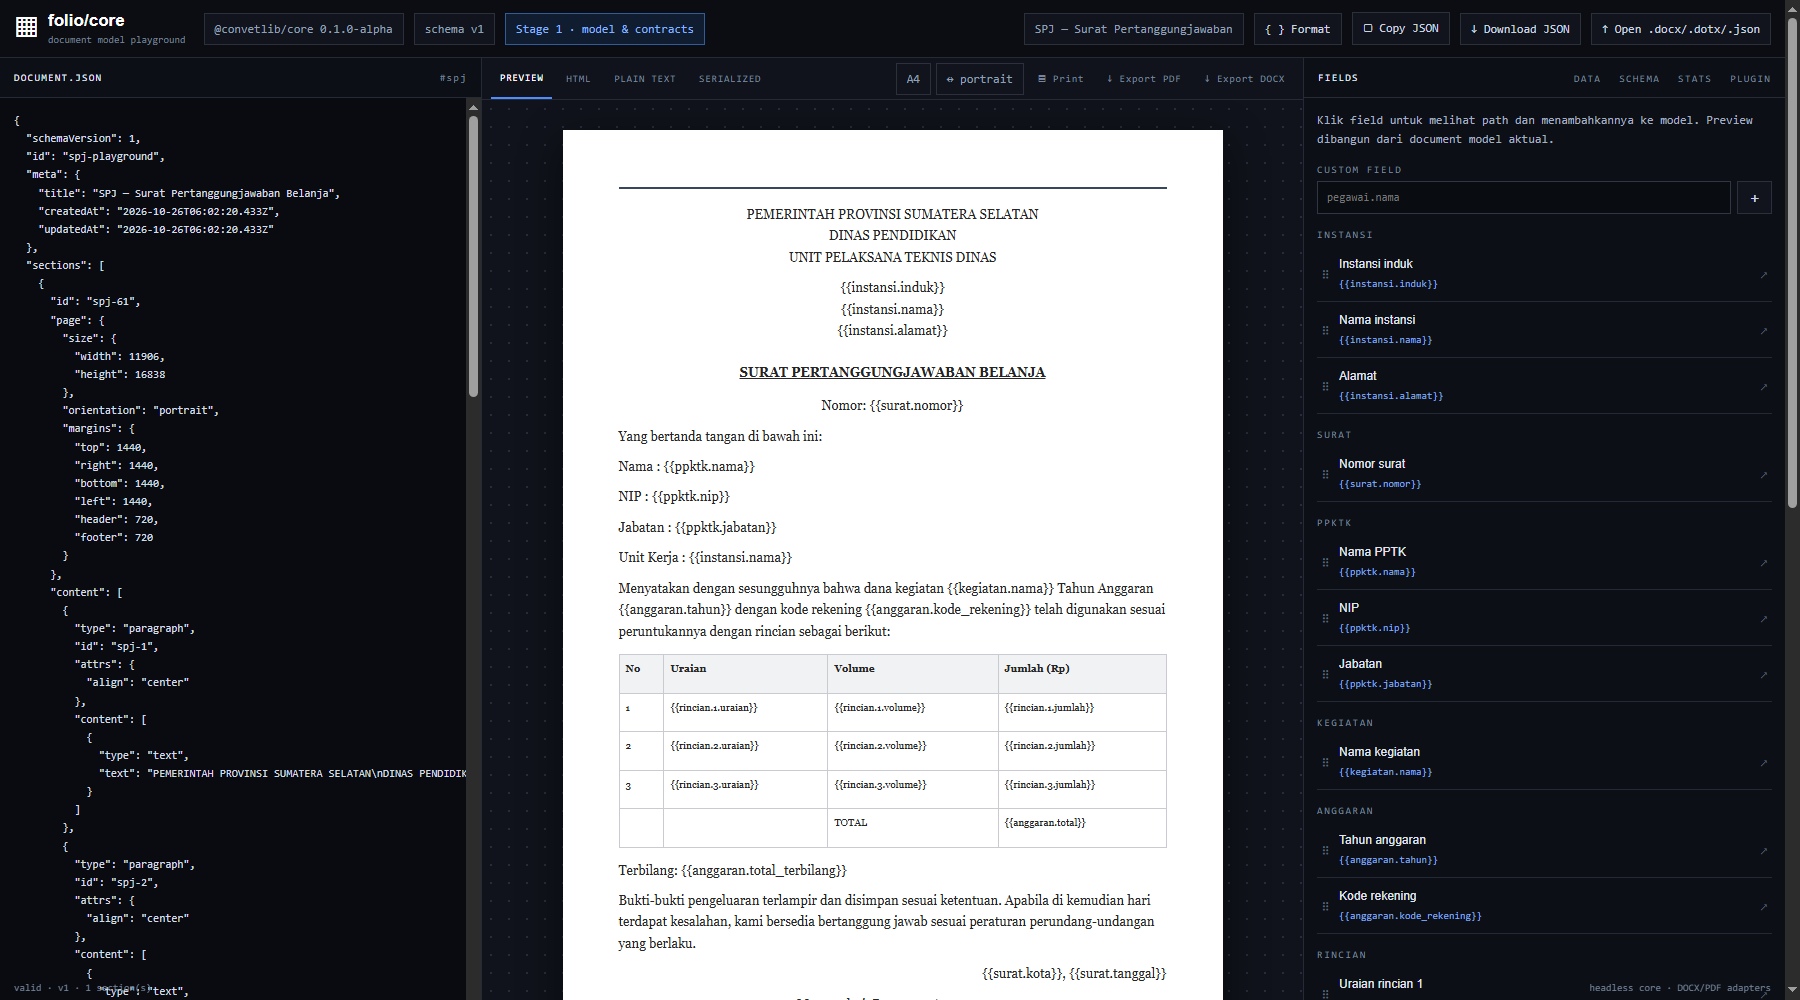
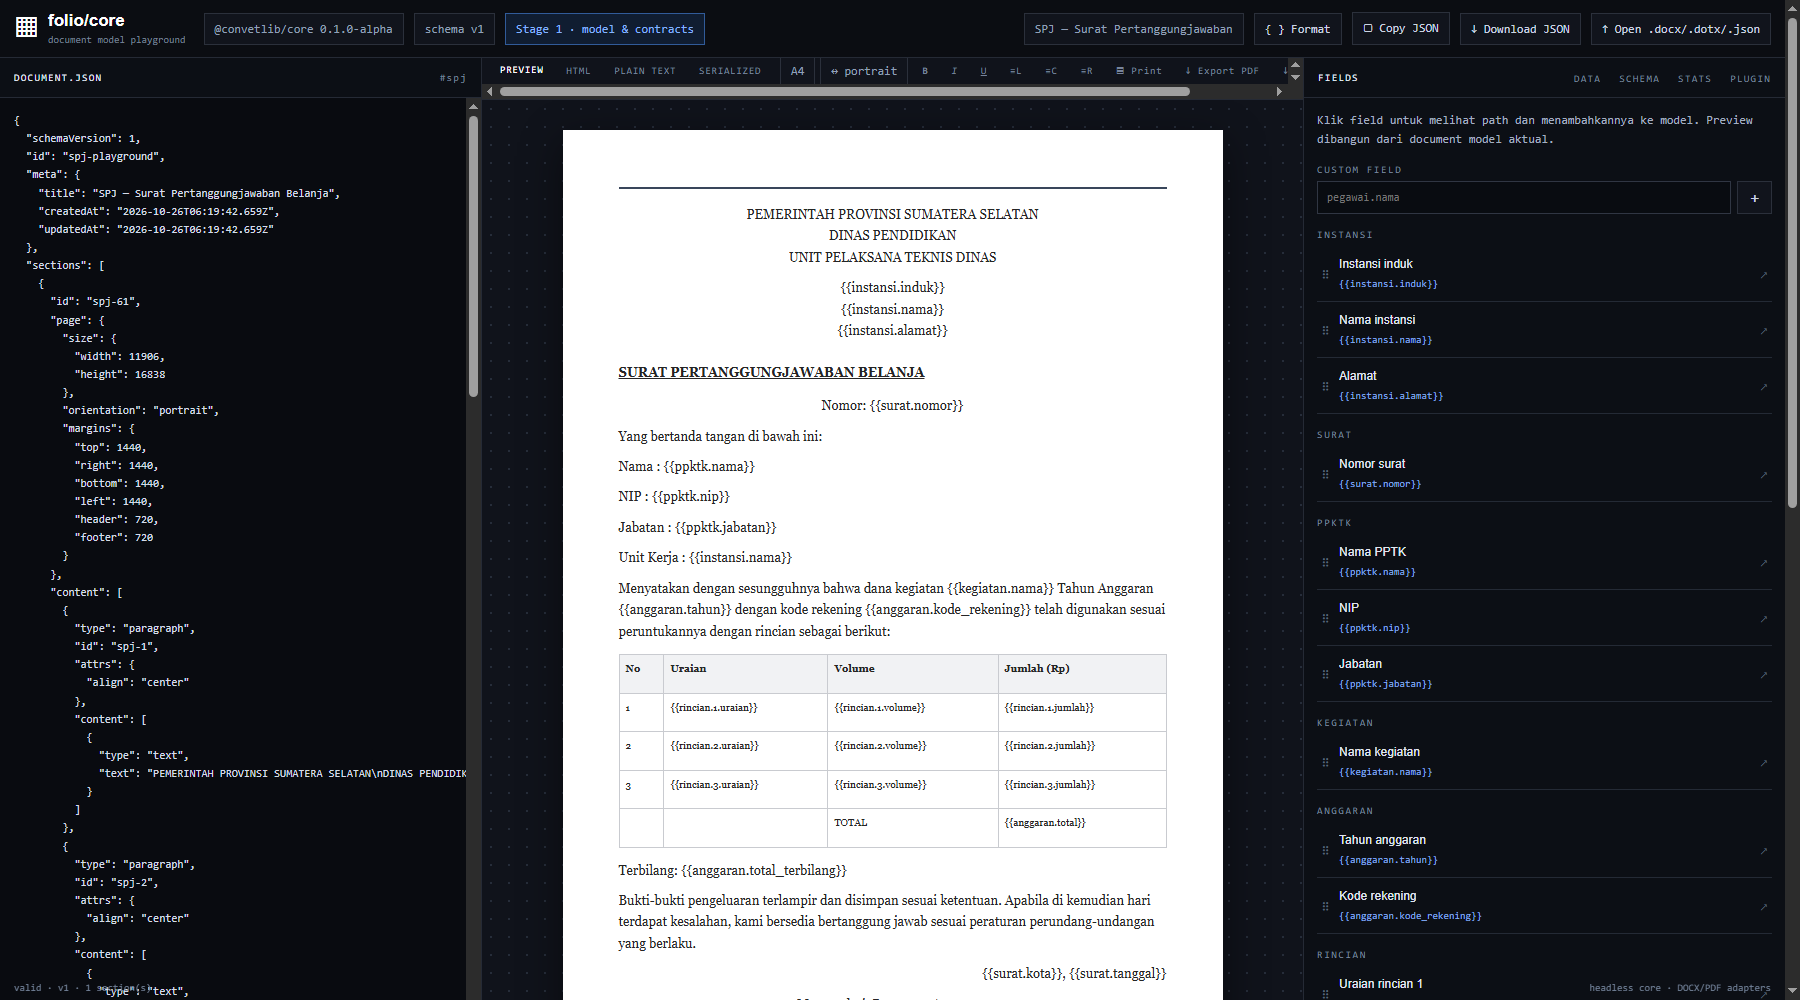
Wire playground to rich text editing commands

Changed region(s): [[0.2489, 0.062, 0.7467, 0.124], [0.3422, 0.341, 0.5911, 0.403]]

diff --git a/examples/playground/src/main.js b/examples/playground/src/main.js
@@ -1,4 +1,5 @@
 import { createDocument, createNodeFactory, coreSchema, parseDocument, createEditor } from '@convetlib/core';
+import { bindBrowserEditor, registerEditingCommands } from '@convetlib/editor';
 import { exportDocx, importDocx } from '@convetlib/docx';
 import { exportPdf } from '@convetlib/pdf';
 import './style.css';
@@ -22,8 +23,8 @@ let editor = await createEditor({document:initial});
 let currentView='preview'; let lastValid=initial;
 const pathLabels={'surat.nomor':'Nomor surat','surat.tanggal':'Tanggal surat','surat.kota':'Kota','surat.perihal':'Perihal','surat.lampiran':'Lampiran','instansi.induk':'Instansi induk','instansi.nama':'Nama instansi','instansi.alamat':'Alamat','instansi.telepon':'Telepon','ppktk.nama':'Nama PPTK','ppktk.nip':'NIP','ppktk.jabatan':'Jabatan','kegiatan.nama':'Nama kegiatan','anggaran.tahun':'Tahun anggaran','anggaran.kode_rekening':'Kode rekening','anggaran.total':'Total anggaran','anggaran.total_terbilang':'Total terbilang','pejabat.nama':'Nama pejabat','rincian.1.uraian':'Uraian rincian 1','rincian.1.volume':'Volume rincian 1','rincian.1.jumlah':'Jumlah rincian 1'};
 function esc(s){return String(s).replace(/[&<>"']/g,c=>({'&':'&amp;','<':'&lt;','>':'&gt;','"':'&quot;',"'":'&#39;'}[c]));}
-function inlineText(node){if(node.type==='text')return esc(node.text);if(node.type==='placeholder'){const key=node.attrs?.key||'unknown';return `<span class="placeholder">{{${esc(key)}}}</span>`}if(node.type==='hardBreak')return '<br>';if(node.type==='pageNumber')return '<span class="placeholder">{{pageNumber}}</span>';return '';}
-function blockHtml(node){if(node.type==='table'){return `<table>${(node.content||[]).map((row,ri)=>`<tr>${(row.content||[]).map(cell=>`<td>${(cell.content||[]).map(blockHtml).join('')}</td>`).join('')}</tr>`).join('')}</table>`}const txt=(node.content||[]).map(x=>x.id?blockHtml(x):inlineText(x)).join('');if(node.type==='heading')return `<h2>${txt}</h2>`;if(node.type==='image')return `<div class="image-placeholder">Image node · ${esc(node.attrs?.alt||'embedded image')}</div>`;if(node.type==='pageBreak')return '<hr>';if(node.type==='horizontalRule')return '<hr>';return `<p data-editable-block="${esc(node.id||'')}" contenteditable="true" spellcheck="true" style="text-align:${esc(node.attrs?.align||'left')}">${txt.replace(/\n/g,'<br>')}</p>`;}
+function inlineText(node){if(node.type==='text'){let value=esc(node.text);for(const mark of node.marks||[]){if(mark.type==='bold')value=`<strong>${value}</strong>`;else if(mark.type==='italic')value=`<em>${value}</em>`;else if(mark.type==='underline')value=`<u>${value}</u>`;else if(mark.type==='strike')value=`<s>${value}</s>`;}return value;}if(node.type==='placeholder'){const key=node.attrs?.key||'unknown';return `<span class="placeholder" data-inline-atom="true">{{${esc(key)}}}</span>`}if(node.type==='hardBreak')return '<br>';if(node.type==='pageNumber')return '<span class="placeholder">{{pageNumber}}</span>';return '';}
+function blockHtml(node){if(node.type==='table'){return `<table>${(node.content||[]).map(row=>`<tr>${(row.content||[]).map(cell=>`<td>${(cell.content||[]).map(blockHtml).join('')}</td>`).join('')}</tr>`).join('')}</table>`}const txt=(node.content||[]).map(x=>x.id?blockHtml(x):inlineText(x)).join('');if(node.type==='heading')return `<h2 data-block-id="${esc(node.id||'')}" style="text-align:${esc(node.attrs?.align||'left')}">${txt}</h2>`;if(node.type==='image')return `<div class="image-placeholder">Image node · ${esc(node.attrs?.alt||'embedded image')}</div>`;if(node.type==='pageBreak')return '<hr>';if(node.type==='horizontalRule')return '<hr>';if(['paragraph','codeBlock'].includes(node.type))return `<p data-block-id="${esc(node.id||'')}" style="text-align:${esc(node.attrs?.align||'left')}">${txt.replace(/\n/g,'<br>')}</p>`;return `<div>${txt}</div>`;}
 function render(){const doc=editor.state.document;lastValid=doc;$('json').value=JSON.stringify(doc,null,2);const issues=coreSchema.validate(doc);$('issuecount').textContent=String(issues.length);$('issues').innerHTML=issues.length?`<strong class="bad">${issues.length} schema issue(s)</strong><ul>${issues.slice(0,8).map(i=>`<li>${esc(i.path)} — ${esc(i.message)}</li>`).join('')}</ul>`:'<strong class="good">● Valid against schema v1</strong><p>The current model passes the core schema validation.</p>';$('validstatus').textContent=issues.length?'● Schema issues detected':'● Valid against schema v1';$('validstatus').className=issues.length?'bad':'good';$('metastats').textContent=`${doc.sections.length} section(s) · ${countNodes(doc.sections)} nodes · model v${doc.schemaVersion}`;$('status').textContent=`${issues.length?'Needs attention':'valid'} · v${doc.schemaVersion} · ${doc.sections.length} section(s)`;const paper=$('paper');if(currentView==='json'){paper.innerHTML=`<pre>${esc(JSON.stringify(doc,null,2))}</pre>`}else if(currentView==='text'){paper.innerHTML=`<pre>${esc(flatText(doc.sections))}</pre>`}else if(currentView==='html'){paper.innerHTML=`<pre>${esc(doc.sections.map(s=>s.content.map(blockHtml).join('\n')).join('\n'))}</pre>`}else{paper.innerHTML=doc.sections.map(s=>`<div class="letterhead">${(s.header||[]).map(blockHtml).join('')}</div>${s.content.map(blockHtml).join('')}<div class="letterfoot">${(s.footer||[]).map(blockHtml).join('')}</div>`).join('')}renderFields(doc);}
 function countNodes(nodes){let count=0;for(const node of nodes||[]){count++;if(node.content)count+=countNodes(node.content.filter(x=>x.id));}return count;}
 function flatText(sections){const out=[];const walk=nodes=>{for(const x of nodes||[]){if(x.type==='text')out.push(x.text);else if(x.id){if(x.type==='table')out.push('\n[TABLE]\n');walk(x.content);out.push('\n')}else if(x.type==='placeholder')out.push(`{{${x.attrs?.key||'unknown'}}}`)}};for(const s of sections)walk(s.content);return out.join('').replace(/\n{3,}/g,'\n\n');}
@@ -31,8 +32,6 @@ function collectFields(nodes,set=new Set()){for(const x of nodes||[]){if(x.type=
 function renderFields(doc){const keys=[...collectFields(doc.sections.flatMap(s=>[...(s.header||[]),...s.content,...(s.footer||[])]))];$('fields').innerHTML='';let last='';for(const key of keys){const group=key.split('.')[0];if(group!==last){const h=document.createElement('div');h.className='group';h.textContent=group.toUpperCase();$('fields').append(h);last=group}const row=document.createElement('button');row.className='fieldrow';row.innerHTML=`<span class="grip">⠿</span><span class="fieldbody"><b>${esc(pathLabels[key]||key)}</b><code>{{${esc(key)}}}</code></span><span class="arrow">↗</span>`;row.onclick=()=>{const box=$('json');box.focus();const pos=box.value.indexOf(key);if(pos>=0)box.setSelectionRange(pos,pos+key.length);$('status').textContent=`Field selected: ${key}`};$('fields').append(row)}}
 function replaceModel(value){const parsed=parseDocument(value);if(!parsed.ok){$('issues').innerHTML=`<strong class="bad">Invalid document model</strong><ul>${parsed.issues.slice(0,10).map(i=>`<li>${esc(i.path)} — ${esc(i.message)}</li>`).join('')}</ul>`;$('issuecount').textContent=String(parsed.issues.length);return false}const result=editor.replaceDocument(parsed.document);if(!result.ok){$('issues').innerHTML=`<strong class="bad">${esc(result.error?.message||'Unable to replace document')}</strong>`;return false}render();return true;}
 $('json').addEventListener('change',()=>{try{if(!replaceModel(JSON.parse($('json').value)))$('status').textContent='JSON ditolak: schema validation gagal'}catch(e){$('status').textContent=`JSON parse error: ${e.message}`}});
-function findNode(nodes,id){for(const node of nodes||[]){if(node.id===id)return node;if(node.content){const found=findNode(node.content,id);if(found)return found;}}return null;}
-$('paper').addEventListener('focusout',e=>{const target=e.target.closest('[data-editable-block]');if(!target||currentView!=='preview')return;const id=target.dataset.editableBlock;const node=findNode(editor.state.document.sections,id);if(!node||!Array.isArray(node.content))return;const before=node.content.map(x=>x.type==='text'?x.text:x.type==='placeholder'?`{{${x.attrs?.key||''}}}`:'').join('');const after=(target.innerText||'').replace(/\\r/g,'').replace(/\\n$/,'');if(before===after)return;const ops=[];if(before.length)ops.push({type:'delete_text',blockId:id,from:0,to:before.length});if(after.length)ops.push({type:'insert_text',at:{blockId:id,offset:0},text:after});const result=editor.dispatch({id:ids(),ops,meta:{origin:'playground:wysiwyg',timestamp:new Date().toISOString(),addToHistory:true}});if(!result.ok){$('status').textContent=`Edit rejected: ${result.error.message}`;render();return}$('status').textContent='WYSIWYG edit saved to document model';});
 $('format').onclick=()=>{try{$('json').value=JSON.stringify(JSON.parse($('json').value),null,2);$('status').textContent='JSON formatted'}catch(e){$('status').textContent=`JSON parse error: ${e.message}`}};
 $('copy').onclick=async()=>{await navigator.clipboard.writeText(JSON.stringify(editor.state.document,null,2));$('status').textContent='Document JSON copied'};
 $('download').onclick=()=>download(new Blob([JSON.stringify(editor.state.document,null,2)],{type:'application/json'}),'spj-document.json');
@@ -43,4 +42,10 @@ $('exportpdf').onclick=async()=>{try{const bytes=await exportPdf(editor.state.do
 $('print').onclick=()=>window.print();document.querySelectorAll('[data-view]').forEach(btn=>btn.onclick=()=>{currentView=btn.dataset.view;document.querySelectorAll('[data-view]').forEach(b=>b.classList.toggle('selected',b===btn));render()});
 $('addfield').onclick=()=>{const key=$('custompath').value.trim();if(!key)return;const row=document.createElement('button');row.className='fieldrow';row.innerHTML=`<span class="grip">⠿</span><span class="fieldbody"><b>${esc(pathLabels[key]||key)}</b><code>{{${esc(key)}}}</code></span><span class="arrow">＋</span>`;row.onclick=async()=>{const doc=JSON.parse(JSON.stringify(editor.state.document));const target=doc.sections[0].content.find(x=>x.type==='paragraph');if(!target)return;target.content=[...(target.content||[]),{type:'text',text:' '},{type:'placeholder',attrs:{key}}];replaceModel(doc);$('status').textContent=`Added placeholder ${key} to first paragraph`;};$('fields').append(row);$('custompath').value=''};
 function download(blob,name){const a=document.createElement('a');a.href=URL.createObjectURL(blob);a.download=name;a.click();setTimeout(()=>URL.revokeObjectURL(a.href),1000)}
-editor.on('state:change',render);render();
+registerEditingCommands(editor,{ids});
+const browserBinding=bindBrowserEditor(editor,{root:$('paper'),render,onError:error=>{$('status').textContent=`Editor error: ${error?.message||error}`;}});
+function runEditorCommand(command,args){browserBinding.refreshSelection();const result=editor.commands.execute(command,args);if(!result.ok)$('status').textContent=`${command}: ${result.reason||'command unavailable'}`;else $('status').textContent=`Applied ${command}`;}
+for(const id of ['bold','italic','underline','alignleft','aligncenter','alignright'])$(id).addEventListener('mousedown',e=>e.preventDefault());
+$('bold').onclick=()=>runEditorCommand('text.toggleBold');$('italic').onclick=()=>runEditorCommand('text.toggleItalic');$('underline').onclick=()=>runEditorCommand('text.toggleUnderline');
+$('alignleft').onclick=()=>runEditorCommand('block.setAlignment',{align:'left'});$('aligncenter').onclick=()=>runEditorCommand('block.setAlignment',{align:'center'});$('alignright').onclick=()=>runEditorCommand('block.setAlignment',{align:'right'});
+render();

diff --git a/examples/playground/index.html b/examples/playground/index.html
@@ -1,2 +1,2 @@
 <!doctype html>
-<html lang="id"><head><meta charset="UTF-8"><meta name="viewport" content="width=device-width,initial-scale=1"><title>folio/core · Document Model Playground</title></head><body><div id="app"><header class="top"><div class="brand"><span class="logo">▦</span><div><b>folio/core</b><small>document model playground</small></div></div><span class="chip">@convetlib/core 0.1.0-alpha</span><span class="chip">schema v1</span><span class="chip active">Stage 1 · model & contracts</span><div class="spacer"></div><span class="chip">SPJ — Surat Pertanggungjawaban</span><button id="format">{ } Format</button><button id="copy">▢ Copy JSON</button><button id="download">↓ Download JSON</button><button id="open">↑ Open .docx/.dotx/.json</button><input id="file" type="file" accept=".docx,.dotx,.json" hidden></header><div class="layout"><section class="left"><div class="panehead">DOCUMENT.JSON <span>#spj</span></div><textarea id="json" spellcheck="false" aria-label="Document JSON"></textarea><div class="issuehead">ISSUES <b id="issuecount">0</b></div><div id="issues" class="issues"><strong>● Valid against schema v1</strong><p>Model JSON akan divalidasi langsung oleh coreSchema.</p></div></section><main class="center"><div class="toolbar"><button class="selected" data-view="preview">PREVIEW</button><button data-view="html">HTML</button><button data-view="text">PLAIN TEXT</button><button data-view="json">SERIALIZED</button><span class="spacer"></span><span class="chip">A4</span><span class="chip">↔ portrait</span><button id="print">▤ Print</button><button id="exportpdf">↓ Export PDF</button><button id="exportdocx">↓ Export DOCX</button></div><div class="canvas"><article id="paper" class="paper"></article></div></main><aside class="right"><div class="panehead">FIELDS <span>DATA　 SCHEMA　 STATS　 PLUGIN</span></div><div class="sidecontent"><p class="hint">Klik field untuk melihat path dan menambahkannya ke model. Preview dibangun dari document model aktual.</p><div class="group">CUSTOM FIELD</div><div class="custom"><input id="custompath" placeholder="pegawai.nama"><button id="addfield">+</button></div><div id="fields"></div><div class="group">CORE ENGINE</div><div class="info"><b id="validstatus">● Valid against schema v1</b><p id="metastats">Editor engine starting…</p></div></div></aside></div><footer><span id="status">Initializing @convetlib/core…</span><span>headless core · DOCX/PDF adapters</span></footer></div><script type="module" src="/src/main.js"></script></body></html>
+<html lang="id"><head><meta charset="UTF-8"><meta name="viewport" content="width=device-width,initial-scale=1"><title>folio/core · Document Model Playground</title></head><body><div id="app"><header class="top"><div class="brand"><span class="logo">▦</span><div><b>folio/core</b><small>document model playground</small></div></div><span class="chip">@convetlib/core 0.1.0-alpha</span><span class="chip">schema v1</span><span class="chip active">Stage 1 · model & contracts</span><div class="spacer"></div><span class="chip">SPJ — Surat Pertanggungjawaban</span><button id="format">{ } Format</button><button id="copy">▢ Copy JSON</button><button id="download">↓ Download JSON</button><button id="open">↑ Open .docx/.dotx/.json</button><input id="file" type="file" accept=".docx,.dotx,.json" hidden></header><div class="layout"><section class="left"><div class="panehead">DOCUMENT.JSON <span>#spj</span></div><textarea id="json" spellcheck="false" aria-label="Document JSON"></textarea><div class="issuehead">ISSUES <b id="issuecount">0</b></div><div id="issues" class="issues"><strong>● Valid against schema v1</strong><p>Model JSON akan divalidasi langsung oleh coreSchema.</p></div></section><main class="center"><div class="toolbar"><button class="selected" data-view="preview">PREVIEW</button><button data-view="html">HTML</button><button data-view="text">PLAIN TEXT</button><button data-view="json">SERIALIZED</button><span class="spacer"></span><span class="chip">A4</span><span class="chip">↔ portrait</span><button id="bold" title="Bold (Ctrl+B)"><b>B</b></button><button id="italic" title="Italic (Ctrl+I)"><i>I</i></button><button id="underline" title="Underline (Ctrl+U)"><u>U</u></button><button id="alignleft" title="Align left">≡L</button><button id="aligncenter" title="Align center">≡C</button><button id="alignright" title="Align right">≡R</button><button id="print">▤ Print</button><button id="exportpdf">↓ Export PDF</button><button id="exportdocx">↓ Export DOCX</button></div><div class="canvas"><article id="paper" class="paper"></article></div></main><aside class="right"><div class="panehead">FIELDS <span>DATA　 SCHEMA　 STATS　 PLUGIN</span></div><div class="sidecontent"><p class="hint">Klik field untuk melihat path dan menambahkannya ke model. Preview dibangun dari document model aktual.</p><div class="group">CUSTOM FIELD</div><div class="custom"><input id="custompath" placeholder="pegawai.nama"><button id="addfield">+</button></div><div id="fields"></div><div class="group">CORE ENGINE</div><div class="info"><b id="validstatus">● Valid against schema v1</b><p id="metastats">Editor engine starting…</p></div></div></aside></div><footer><span id="status">Initializing @convetlib/core…</span><span>headless core · DOCX/PDF adapters</span></footer></div><script type="module" src="/src/main.js"></script></body></html>
